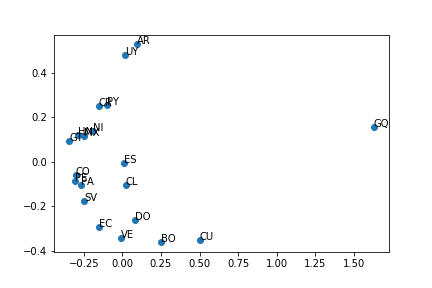
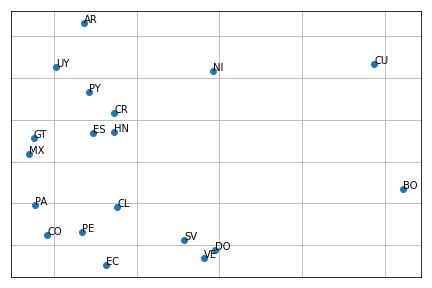
Docs (3)

Changed region(s): [[0.0301, 0.0312, 0.9931, 0.9688]]

diff --git a/docs/source/voc.rst b/docs/source/voc.rst
@@ -40,7 +40,7 @@ In the next example, let us examine the February 14th, 2020.
 >>> day = dict(year=2020, month=2, day=14)
 >>> voc = Vocabulary(day, lang="En")
 >>> voc.voc.most_common(3)
-[('rt', 2555708), ('the', 1741185), ('to', 1237161)]
+[('the', 691141), ('to', 539942), ('i', 518791)]
 
 As can be seen, the result is not informative about 
 the events that occurred in the day. Perhaps by removing 
@@ -48,7 +48,7 @@ common words would produce an acceptable representation.
 
 >>> voc.remove(voc.common_words())
 >>> voc.voc.most_common(3)
-[('nct~〖', 114810), ('nct~〗', 112816), ('valentine’s', 75820)]
+[('valentine’s', 22137), ("valentine's", 21024), ('valentines', 20632)]
 
 Word Clouds
 -----------------------------------
@@ -114,22 +114,41 @@ the dates needed.
 
 Once the date is selected, it is time to retrieve the tokens on the 
 specified dates from the Spanish-speaking countries. 
-The second instruction, from the following code, defines 
-the Spanish-speaking countries. The third instruction retrieves 
+The following codes retrieves 30 random days from the 
+year 2019 to 2021. The last instruction retrieves 
 the tokens and their frequency for each country.
 
 >>> from text_models import Vocabulary
->>> countries = ['MX', 'CO', 'ES', 'AR', 'PE', 'VE', 'CL', 'EC',
-                 'GT', 'CU', 'BO', 'DO', 'HN', 'PY', 'SV', 'NI', 
-                 'CR', 'PA', 'UY', 'GQ']
+>>> from text_models.utils import date_range
+>>> import random
+>>> NDAYS = 30
+>>> init = dict(year=2019, month=1, day=1)
+>>> end = dict(year=2021, month=12, day=31)
+>>> dates = date_range(init, end)
+>>> random.shuffle(dates)
+>>> countries = ['MX', 'CO', 'ES', 'AR',
+                 'PE', 'VE', 'CL', 'EC',
+                 'GT', 'CU', 'BO', 'DO',
+                 'HN', 'PY', 'SV', 'NI',
+                 'CR', 'PA', 'UY']
+>>> avail = Vocabulary.available_dates
+>>> dates = avail(dates, n=NDAYS,
+                  countries=countries,
+                  lang="Es")
 >>> vocs = [Vocabulary(dates.copy(), lang="Es", country=c)
             for c in countries]
 
-As done with the word clouds, the q-grams and emojis are removed from the vocabulary. 
+From the vocabulary of all the countries, it is kept the 
+first :math:`n` tokens with higher frequency where :math:`n`
+corresponds to the 10% of the country's vocabulary with less number
+of tokens.
 
->>> for voc in vocs:
->>>   voc.remove_qgrams()
->>>   voc.remove_emojis()
+>>> _min = min([len(x.voc) for x in vocs])
+>>> _min = int(_min * .1)
+>>> tokens = [x.voc.most_common(_min) 
+              for x in vocs]
+>>> tokens = [set(map(lambda x: x[0], i)) 
+              for i in tokens]
 
 The Jaccard similarity matrix is defined in set operations.
 The first instruction of the following line transforms the vocabulary 
@@ -138,9 +157,8 @@ each one corresponding to a different country. The second instruction
 builds the matrix. There are two nested loops, each one iterating for 
 the country sets. 
 
->>> tokens = [set(x) for x in vocs]
->>> X = [[len(p.intersection(t)) / len(p.union(t))
-          for t in tokens] for p in tokens]
+>>> X = [[len(p & t) / len( p | t)
+         for t in tokens] for p in tokens]
 
 Each row of the Jaccard similarity matrix can be as the country signature, 
 so in order to depict this signature in a plane, we decided to transform 

diff --git a/docs/source/text_representation.rst b/docs/source/text_representation.rst
@@ -39,16 +39,22 @@ into text representations. The basic idea is to convert a dataset into a labeled
 dataset where the labels are automatically identified. 
 The :ref:`emoji` developed here followed this idea. 
 The dataset used to train these representations is a set of tweets collected 
-from the Twitter open stream in Arabic, Chinese, English, French, Portuguese, 
+from Twitter's open stream in Arabic, Chinese, English, French, Portuguese, 
 Russian, and Spanish.
+
+On the other hand, many competitions and datasets follow an equivalent structure 
+to the approach mentioned above; these competitions can be used to increase 
+the number of possible text representations.  The :ref:`dataset`  
+describes the dataset and competition sets used to create text representations. 
 
 .. _bow:
 
 Bag of Word (BoW) Representation
 --------------------------------------
 
-Once the dataset is ready, it is time to develop the representations. 
-The first step is to transform the text into a suitable representation. 
+
+The first step to including more information in the representation is to be able 
+to represent the text in a format amenable to different machine learning algorithms. 
 Particularly, it is used a BoW representation with q-grams of 
 characters (2, 3, and 4) and words; the constraint is that the q-grams are 
 only computed on the words, and consequently, there are no q-grams between words. 
@@ -77,7 +83,7 @@ These representations can be used as follows:
 >>> X.shape
 (2, 16384)
 
-where the text `Hola` (`Hi` in English) and `Está funcionando` (`It is working`) 
+where the text *Hola* (*Hi* in English) and *Está funcionando* (*It is working*) 
 are transformed into matrix :math:`\mathbb R^{2 \times 16384}`.
 
 .. _emoji:
@@ -91,3 +97,27 @@ The idea is to use the emoji in the text as the labels.
 The process selects and removes the emojis in the tweets and keeps them as the 
 labels of the text. The emojis kept are the ones that appear at least 1024 times 
 alone, i.e., the text contains only one emoji. 
+
+The second step is to use the labeled dataset and the BoW model with a classifier; 
+it was decided to use a Linear Support Vector Machine 
+(implemented in `sklearn.svm.LinearSVC`). The methodology used is one versus the rest. 
+The positive class corresponds to 262,144 tweets containing only the label at hand, 
+whereas the negative class corresponds to 262,144 randomly selected from the other labels. 
+For the negative class, only tweets with unique labels are used; however, 
+if there are not enough, it is allowed to use tweets with multiple labels as long as 
+it does not contain the positive class. 
+
+The following code uses the emoji representation in English using only the representation 
+of the emoji identified with index 0. 
+
+>>> from text_models.utils import load_bow, load_emoji
+>>> bow = load_bow(lang='en')
+>>> emo = load_emoji(lang='en', emoji=0)
+>>> X = bow.transform(['This is funny', 'This is sad'])
+>>> emo.decision_function(X)
+array([ 0.97302326, -0.4441671 ])
+
+.. _dataset:
+
+Dataset Text Representation
+---------------------------------
